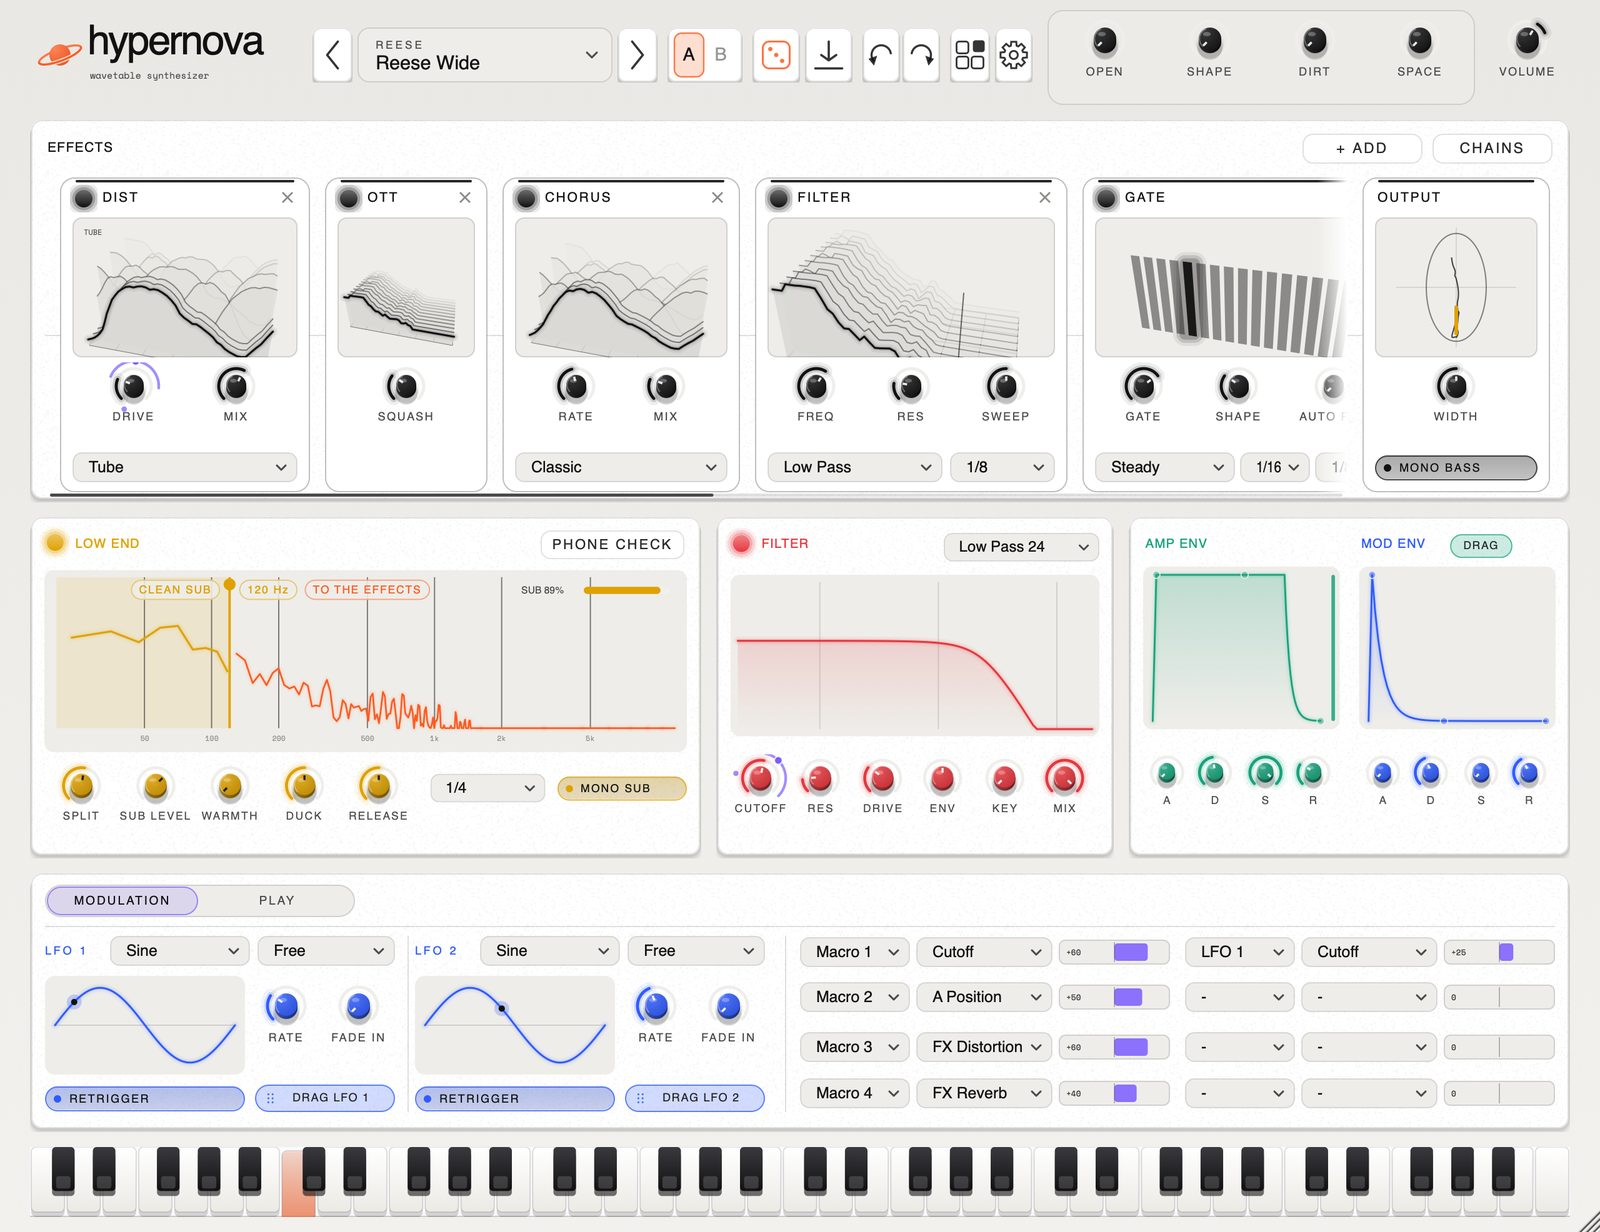
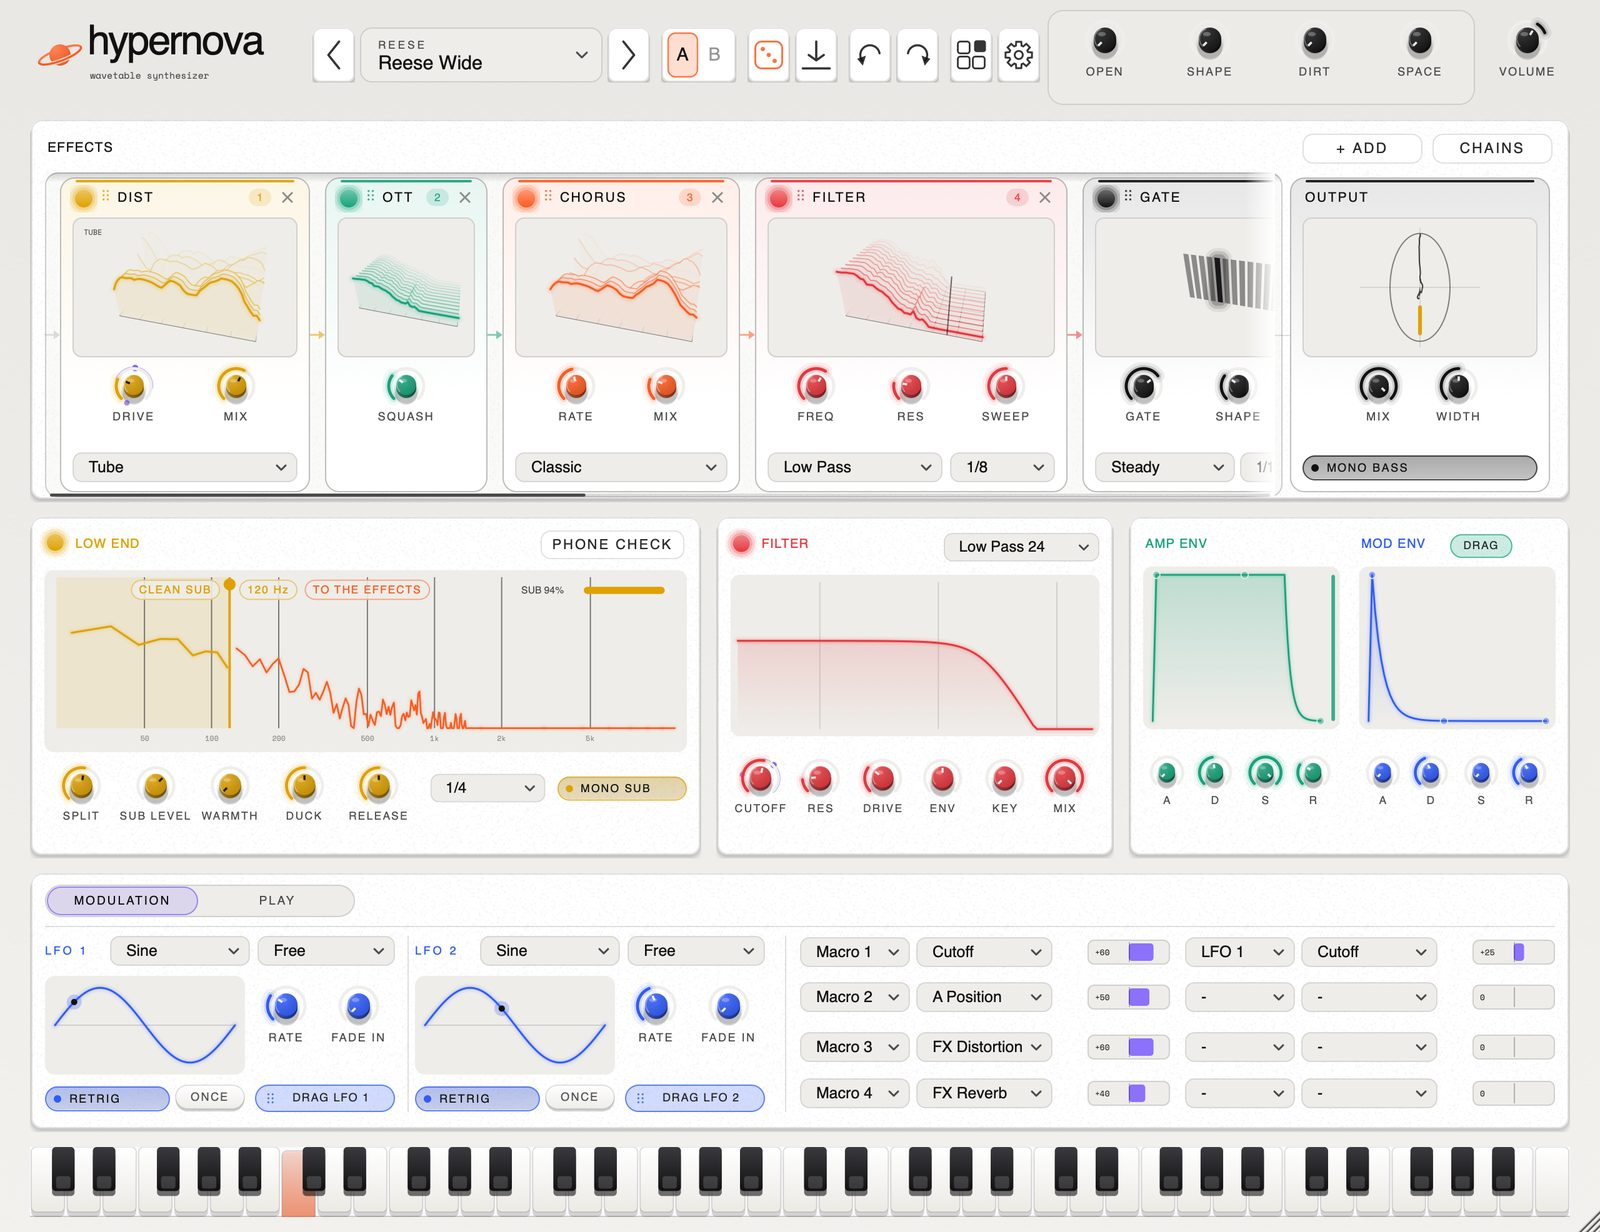
Site: sixteen effects on two buses, screenshots as it opens now
The shots are re-rendered from the current build in every theme, showing the
deck opening on the effects rack. Two unused images are dropped.

diff --git a/docs/index.html b/docs/index.html
@@ -4,7 +4,7 @@
   <meta charset="utf-8">
   <meta name="viewport" content="width=device-width, initial-scale=1, viewport-fit=cover">
   <title>Hypernova, a wavetable synthesizer for macOS</title>
-  <meta name="description" content="Hypernova is a wavetable synthesizer for macOS. Up to eight oscillators, a sampler, 419 sounds, a panel layout you arrange yourself, wavetable import, cross modulation and fifteen effects in a rack. VST3, AU and standalone, for Apple Silicon and Intel.">
+  <meta name="description" content="Hypernova is a wavetable synthesizer for macOS. Up to eight oscillators, a sampler, 419 sounds, a panel layout you arrange yourself, wavetable import, cross modulation and sixteen effects in a rack, on two buses. VST3, AU and standalone, for Apple Silicon and Intel.">
   <meta name="theme-color" content="#f2f1ee">
   <meta name="color-scheme" content="light">
   <meta property="og:type" content="website">
@@ -38,7 +38,7 @@
   <main id="main">
     <section class="hero" aria-labelledby="hero-title">
       <h1 id="hero-title">hypernova.</h1>
-      <p class="tagline">a wavetable synthesizer for macOS.<br>up to eight oscillators, a sampler, 419 sounds, fifteen effects.<br>arrange it however you work.</p>
+      <p class="tagline">a wavetable synthesizer for macOS.<br>up to eight oscillators, a sampler, 419 sounds, sixteen effects.<br>arrange it however you work.</p>
 
       <div class="cta">
         <a class="download" href="https://github.com/erinuckuzular-ai/Hypernova/releases/latest" id="download">download for mac</a>
@@ -47,7 +47,7 @@
       </div>
 
       <figure class="hero-shot" aria-label="Move the pointer to tilt">
-        <img src="assets/theme_paper.jpg" width="1600" height="1233" fetchpriority="high"
+        <img src="assets/theme_paper.jpg" width="1600" height="1232" fetchpriority="high"
              alt="The Hypernova editor in the Paper theme: two wavetable oscillators in 3D, Sound Space, filter, envelopes and the modulation deck.">
       </figure>
     </section>
@@ -119,6 +119,8 @@
             <li>DELAY: DIGITAL, REVERSE, GRANULAR</li>
             <li>REVERB: SPACE, PLATE, SPRING, ROOM</li>
             <li>PITCH SHIFTER, 5-BAND EQ, CRUSH, WIDTH, MONO BASS</li>
+            <li>SPEAKER: PHONE, LAPTOP, CAR, BOOMBOX, CLUB</li>
+            <li>TWO BUSES: EVERY SOURCE AND EFFECT PICKS ONE</li>
             <li>EVERY EFFECT A MODULE WITH A LIVE 3D DISPLAY</li>
             <li>DRAG THEM INTO ANY ORDER, SAVE CHAINS</li>
             <li>MODULATE ANY EFFECT CONTROL</li>
@@ -148,15 +150,15 @@
       <p class="lede">every panel is a widget. grab one by its name and drop it anywhere: in the middle of another to make tabs, beside it to split. drag the gaps to resize, double-click a title to fill the window. add a scope, a loudness meter, an XY pad, a live mod monitor or a pinboard of your own knobs from the widget library, and save the lot as a workspace. panels spring into place and can be caught mid-move. none of it touches the sound.</p>
       <div class="shots">
         <figure class="shot">
-          <img src="assets/widgets_analysis.jpg" width="1600" height="1233" loading="lazy" alt="The Analysis workspace: Sound Space, a scope locked to the note, a loudness meter, a mod monitor, an XY pad and the filter.">
+          <img src="assets/widgets_analysis.jpg" width="1600" height="1232" loading="lazy" alt="The Analysis workspace: Sound Space, a scope locked to the note, a loudness meter, a mod monitor, an XY pad and the filter.">
           <figcaption>ANALYSIS WORKSPACE</figcaption>
         </figure>
         <figure class="shot">
-          <img src="assets/widgets_sampling.jpg" width="1600" height="1233" loading="lazy" alt="The Sampling workspace: a sample's waveform with start, end and loop markers, over the filter, envelopes and effects.">
+          <img src="assets/widgets_sampling.jpg" width="1600" height="1232" loading="lazy" alt="The Sampling workspace: a sample's waveform with start, end and loop markers, over the filter, envelopes and effects.">
           <figcaption>SAMPLING WORKSPACE</figcaption>
         </figure>
         <figure class="shot">
-          <img src="assets/widgets_layout.jpg" width="1600" height="1233" loading="lazy" alt="Layout mode: each panel has a handle and round buttons, and the widget library sits alongside.">
+          <img src="assets/widgets_layout.jpg" width="1600" height="1232" loading="lazy" alt="Layout mode: each panel has a handle and round buttons, and the widget library sits alongside.">
           <figcaption>LAYOUT MODE + WIDGET LIBRARY</figcaption>
         </figure>
         <figure class="shot">
@@ -175,19 +177,19 @@
       <p class="lede">paper is the default. the rest are in the gear menu, or pick your own accent colour and ignore all five.</p>
       <div class="shots">
         <figure class="shot">
-          <img src="assets/theme_cosmic.jpg" width="1600" height="1233" loading="lazy" alt="Hypernova in the Cosmic theme.">
+          <img src="assets/theme_cosmic.jpg" width="1600" height="1232" loading="lazy" alt="Hypernova in the Cosmic theme.">
           <figcaption>COSMIC</figcaption>
         </figure>
         <figure class="shot">
-          <img src="assets/theme_blackout.jpg" width="1600" height="1233" loading="lazy" alt="Hypernova in the Blackout theme.">
+          <img src="assets/theme_blackout.jpg" width="1600" height="1232" loading="lazy" alt="Hypernova in the Blackout theme.">
           <figcaption>BLACKOUT</figcaption>
         </figure>
         <figure class="shot">
-          <img src="assets/theme_daylight.jpg" width="1600" height="1233" loading="lazy" alt="Hypernova in the Daylight theme.">
+          <img src="assets/theme_daylight.jpg" width="1600" height="1232" loading="lazy" alt="Hypernova in the Daylight theme.">
           <figcaption>DAYLIGHT</figcaption>
         </figure>
         <figure class="shot">
-          <img src="assets/theme_vapor.jpg" width="1600" height="1233" loading="lazy" alt="Hypernova in the Vapor theme.">
+          <img src="assets/theme_vapor.jpg" width="1600" height="1232" loading="lazy" alt="Hypernova in the Vapor theme.">
           <figcaption>VAPOR</figcaption>
         </figure>
       </div>
